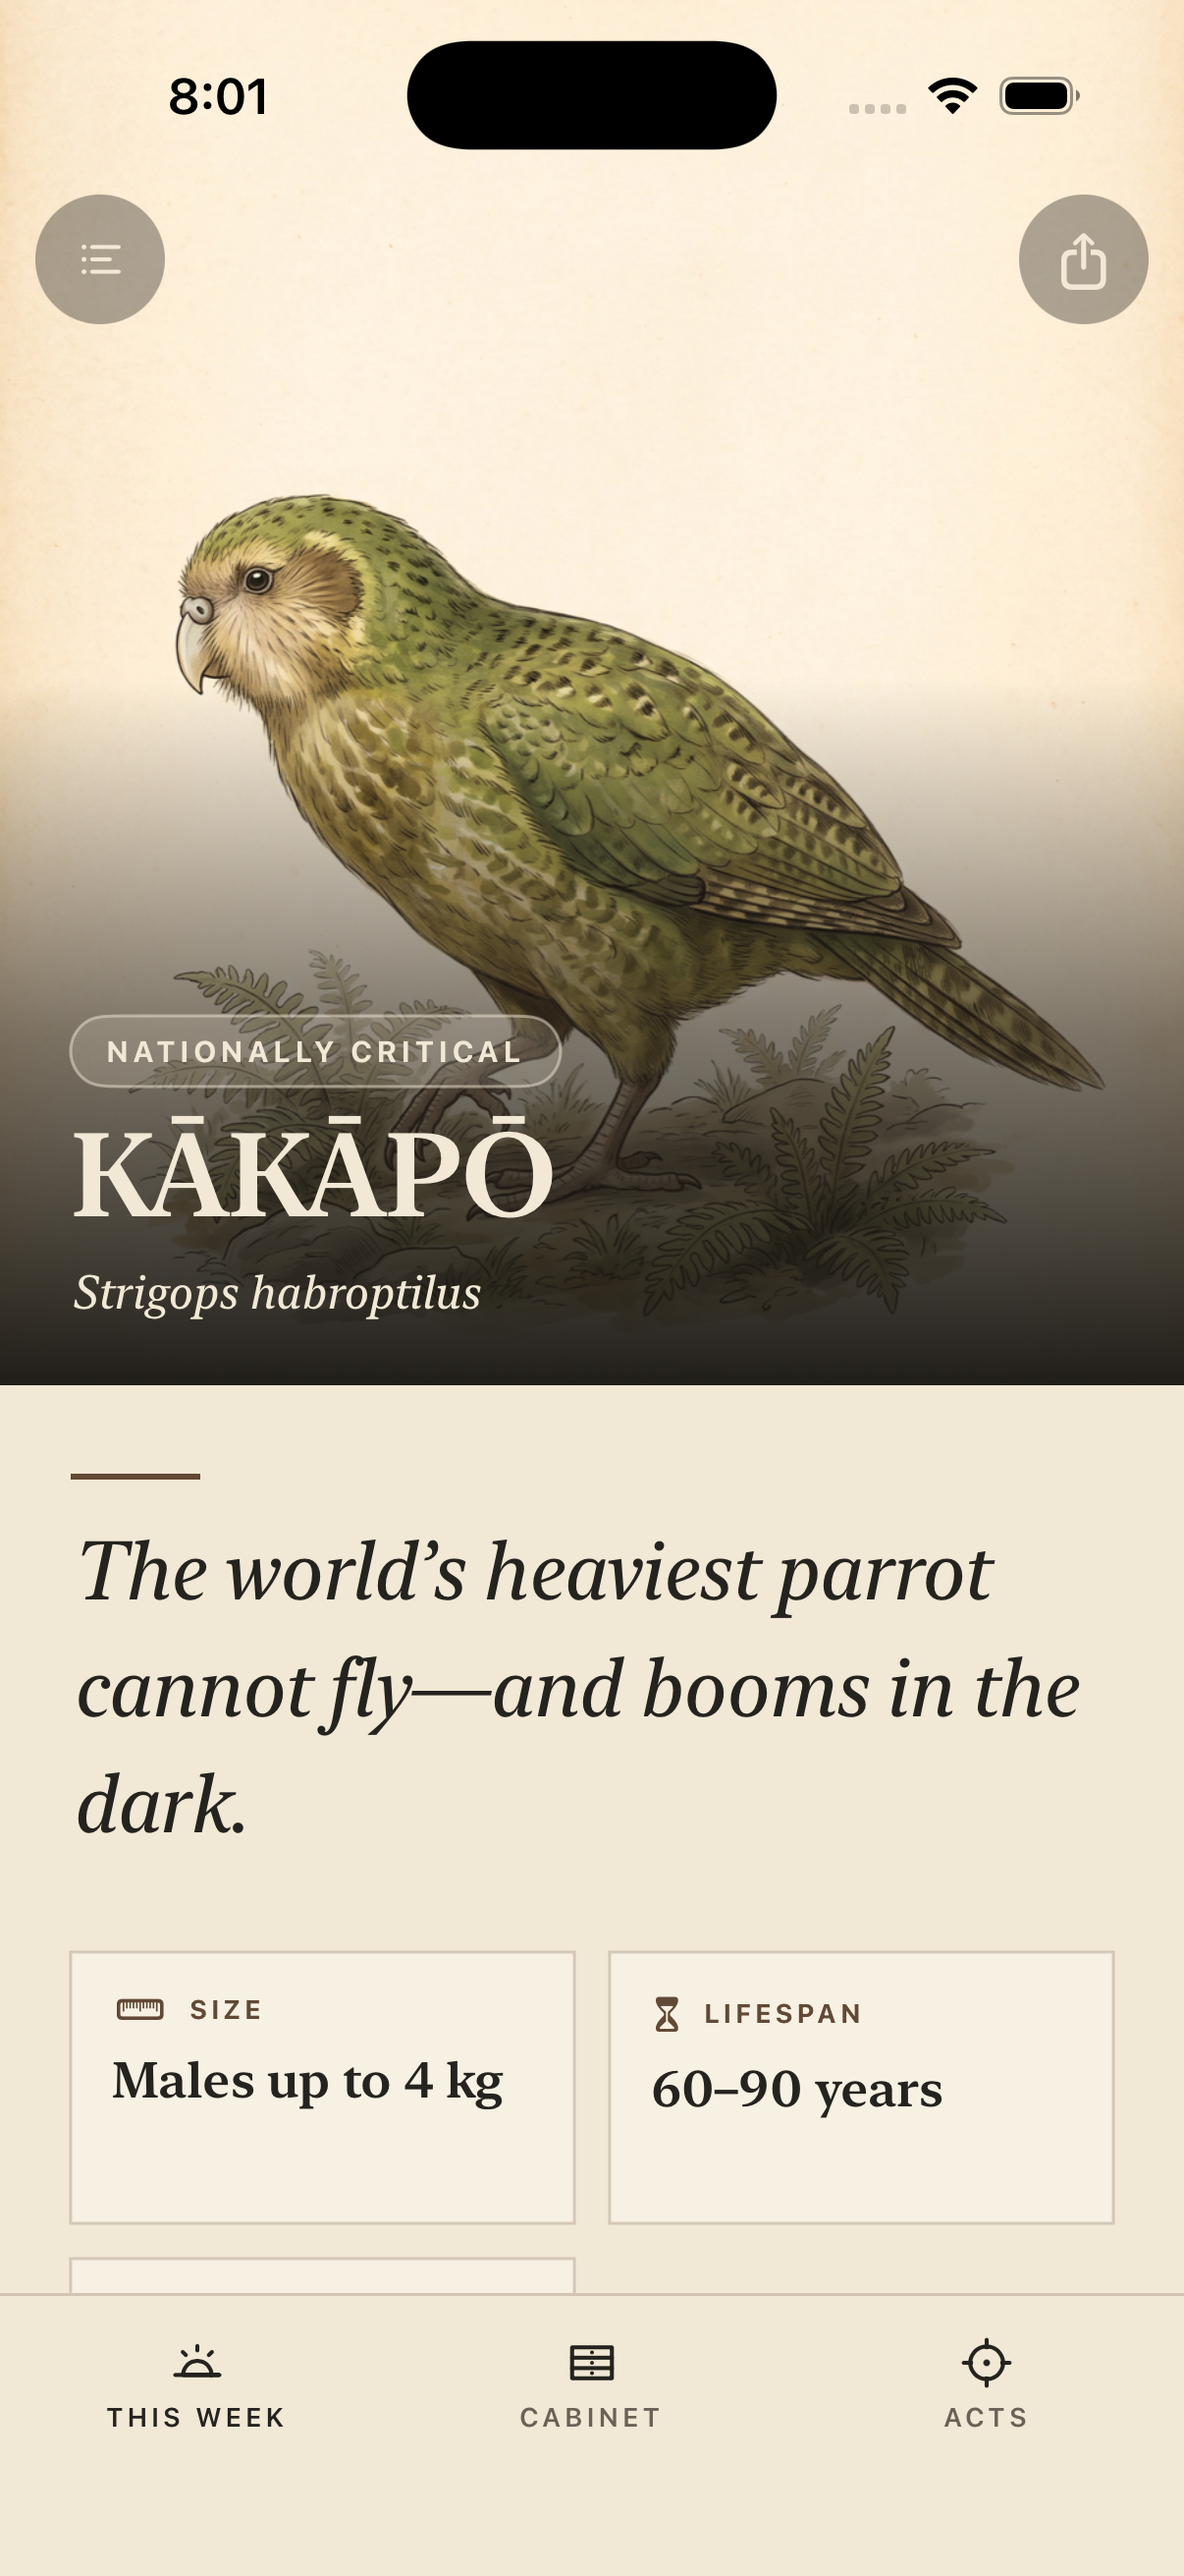
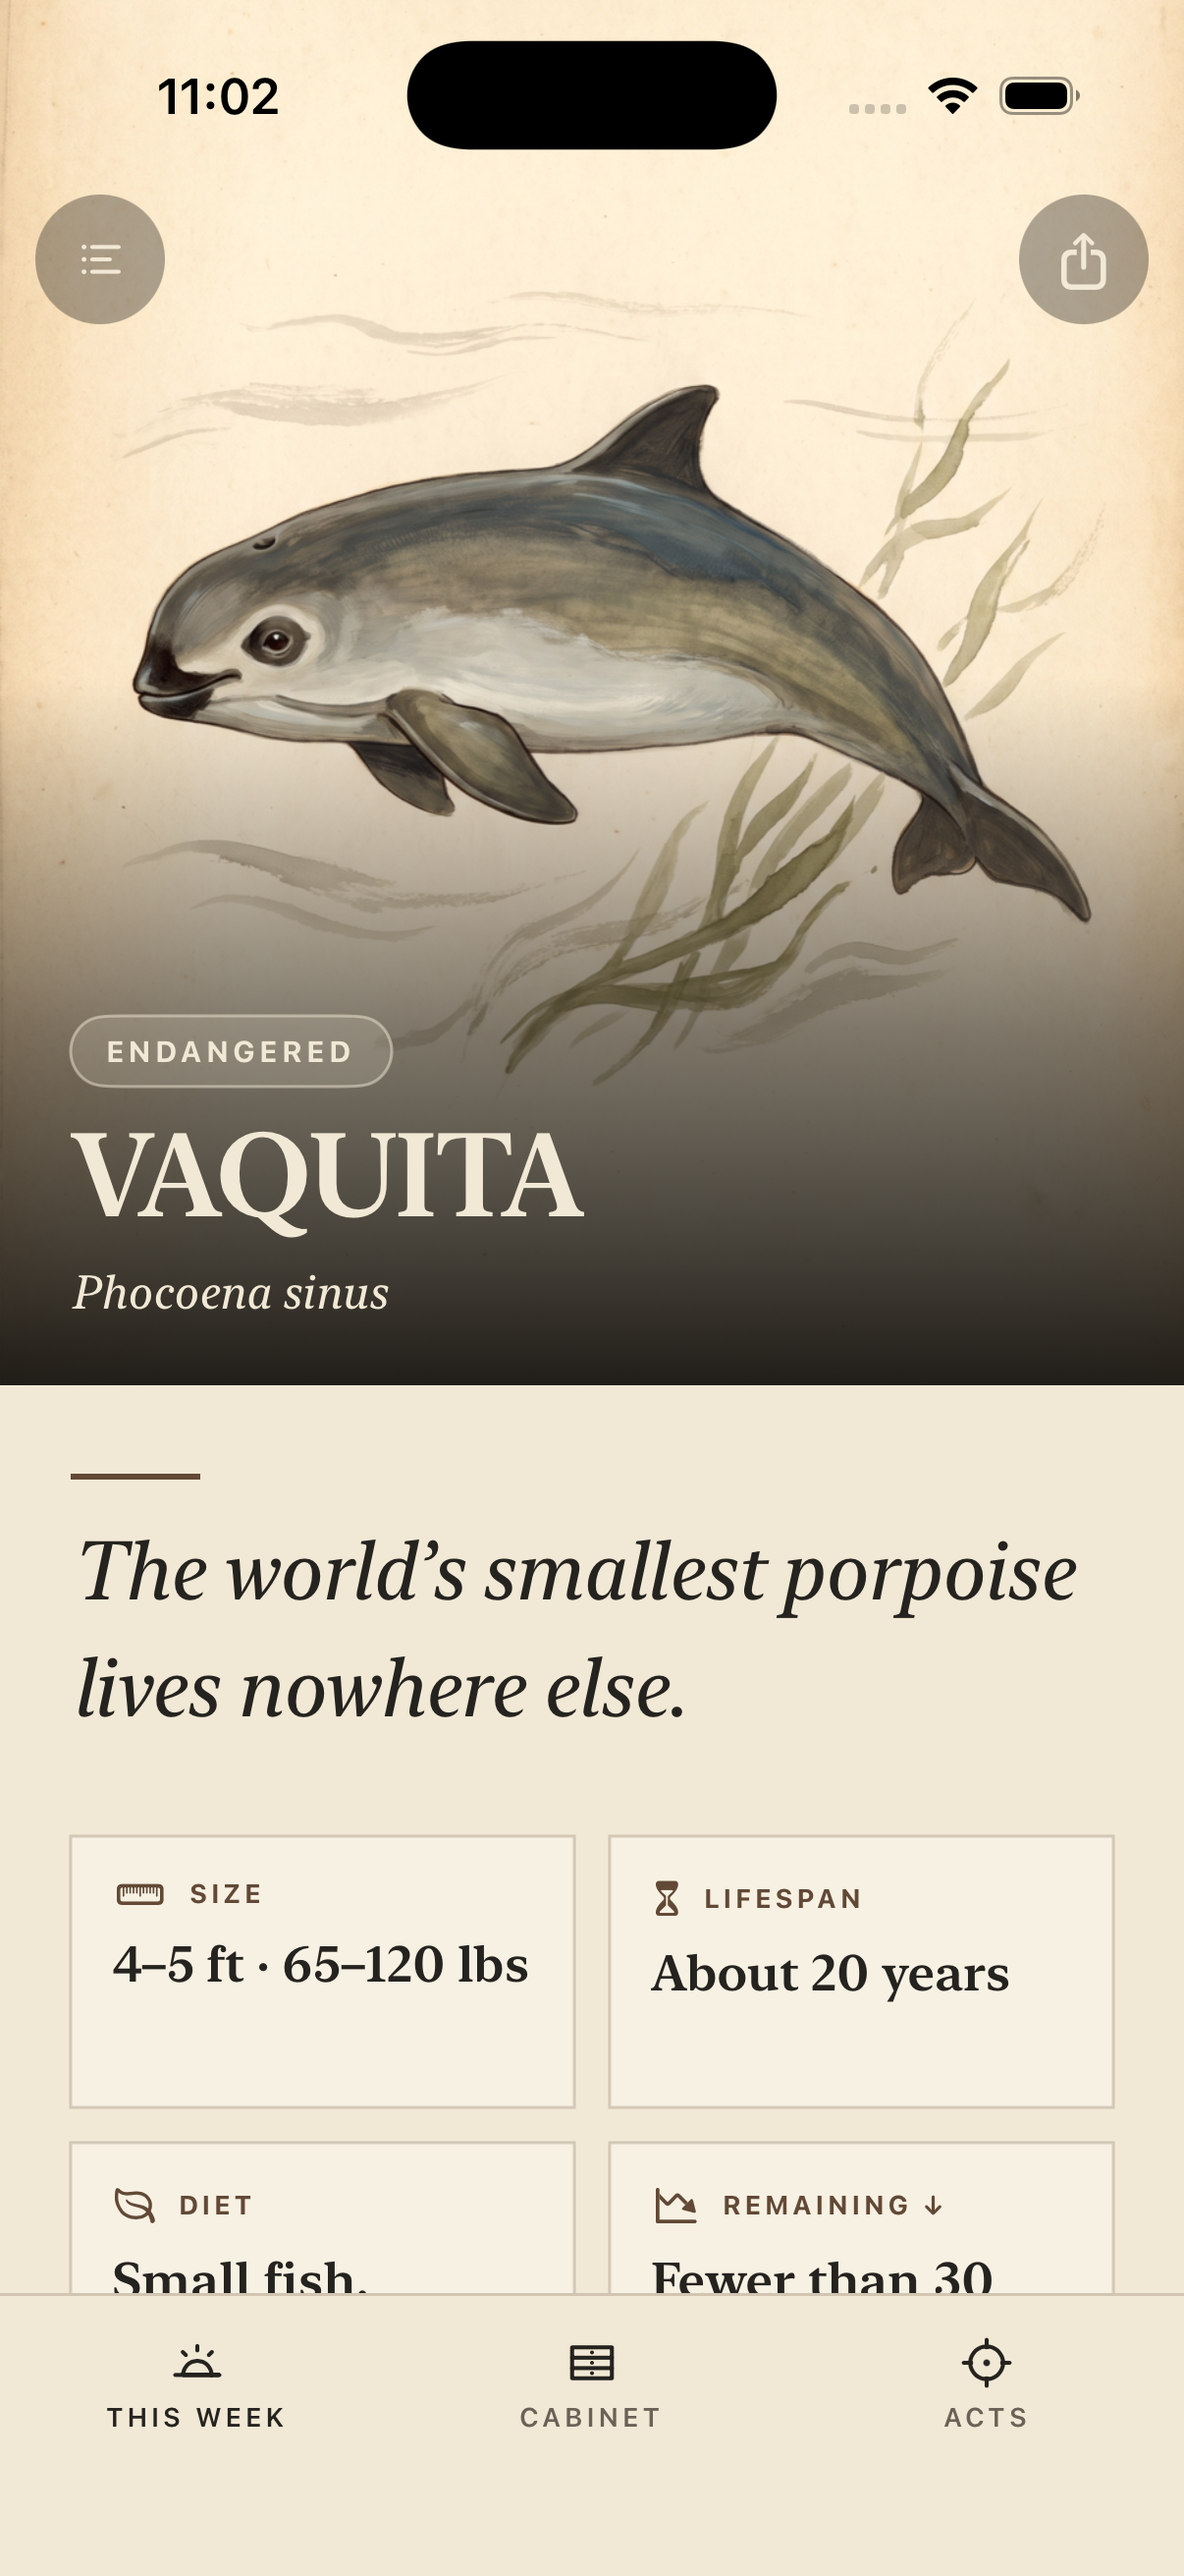
Home: one sticky phone whose screen changes with the step, three different animals
The three "how it works" rows each carried their own phone, all showing the
kākāpō. Now one phone stays put while the copy scrolls past, and its screen
crossfades: the vaquita card, the Javan rhino's witness block, the kākāpō's act.
A small IntersectionObserver component drives it; before hydration the first
step shows. On phones the mockup sits below the header and the copy scrolls
under it. web_shot.mjs can now capture a viewport at a scroll offset.

diff --git a/witness_web/site/app/globals.css b/witness_web/site/app/globals.css
@@ -274,30 +274,36 @@
 }
 
 .how-section { background: var(--paper-fresh); }
-.how-steps { margin-top: 2rem; }
+.how-grid { display: grid; grid-template-columns: minmax(0, 1fr) minmax(0, 1fr); align-items: start; gap: clamp(2rem, 6vw, 6rem); margin-top: 2rem; }
+.how-steps { display: flex; flex-direction: column; }
 .how-step {
-  display: grid;
-  grid-template-columns: minmax(0, 1fr) minmax(0, 1fr);
-  align-items: center;
-  gap: clamp(2rem, 6vw, 6rem);
-  padding-block: clamp(3rem, 6vw, 5rem);
+  display: flex;
+  flex-direction: column;
+  justify-content: center;
+  min-height: 72vh;
+  padding-block: 3rem;
   border-top: 1px solid color-mix(in srgb, var(--hairline) 50%, transparent);
+  opacity: .32;
+  transition: opacity 450ms ease-out;
 }
-.how-step:nth-child(even) .how-copy { order: 2; }
+.how-step.is-active { opacity: 1; }
 .how-index { font-size: .68rem; font-weight: 700; letter-spacing: .16em; color: var(--sepia); }
-.how-copy h3 { margin-top: .9rem; font-family: var(--font-display); font-size: clamp(1.9rem, 3.6vw, 3rem); font-weight: 600; line-height: 1.02; letter-spacing: -.03em; text-wrap: balance; }
-.how-copy > p:last-child { max-width: 42ch; margin-top: 1.1rem; font-size: 1.05rem; line-height: 1.7; color: var(--ink-muted); text-wrap: pretty; }
+.how-step h3 { margin-top: .9rem; font-family: var(--font-display); font-size: clamp(1.9rem, 3.6vw, 3rem); font-weight: 600; line-height: 1.02; letter-spacing: -.03em; text-wrap: balance; }
+.how-step > p:last-child { max-width: 42ch; margin-top: 1.1rem; font-size: 1.05rem; line-height: 1.7; color: var(--ink-muted); text-wrap: pretty; }
 
-/* The bezel is one rule; the screenshot inside carries its own size. */
+/* The phone stays while the steps pass; its screens are stacked and crossfade. */
+.how-device { position: sticky; top: 0; display: flex; align-items: center; justify-content: center; height: 100vh; }
 .phone {
-  width: min(272px, 78vw);
-  margin-inline: auto;
+  position: relative;
+  width: min(300px, 78vw);
   padding: 10px;
   border-radius: 3.1rem;
   background: #10100f;
   box-shadow: 0 34px 70px -34px color-mix(in srgb, var(--ink) 65%, transparent);
 }
-.phone img { display: block; width: 100%; height: auto; border-radius: 2.5rem; }
+.phone img { display: block; width: 100%; height: auto; border-radius: 2.5rem; opacity: 0; transition: opacity 550ms ease-out; }
+.phone img:not(:first-child) { position: absolute; top: 10px; left: 10px; width: calc(100% - 20px); }
+.phone img.is-active { opacity: 1; }
 
 .archive-head { display: grid; grid-template-columns: 1.1fr .9fr; align-items: end; gap: 3rem; }
 .archive-head h2 { max-width: 13ch; }
@@ -366,8 +372,12 @@ details[open] .faq-plus::after { transform: rotate(0deg); }
 @media (max-width: 767px) {
   .home-hero-inner { padding-top: 2rem; }
   .plate-strip { padding-bottom: 2rem; }
-  .how-step { grid-template-columns: 1fr; gap: 2rem; }
-  .how-step .how-copy, .how-step:nth-child(even) .how-copy { order: 2; }
+  .how-grid { grid-template-columns: 1fr; gap: 0; }
+  .how-device { order: -1; top: 4.75rem; z-index: 1; height: auto; padding-block: .75rem 1rem; background: var(--paper-fresh); }
+  .phone { width: min(180px, 44vw); padding: 7px; border-radius: 2.2rem; }
+  .phone img { border-radius: 1.8rem; }
+  .phone img:not(:first-child) { top: 7px; left: 7px; width: calc(100% - 14px); }
+  .how-step { min-height: 46vh; padding-block: 2rem; }
   .archive-head, .faq-layout { grid-template-columns: 1fr; gap: 2rem; }
   .archive-grid { grid-template-columns: repeat(4, 1fr); }
   .work { grid-template-columns: 1fr; }
@@ -378,7 +388,7 @@ details[open] .faq-plus::after { transform: rotate(0deg); }
 }
 
 @media (prefers-reduced-motion: reduce) {
-  .plate-strip img, .archive-grid img { transition: none; }
+  .plate-strip img, .archive-grid img, .how-step, .phone img { transition: none; }
 }
 
 /* Field notes — the daily essay. One measure, one voice, sources below. */

diff --git a/witness_web/site/app/page.tsx b/witness_web/site/app/page.tsx
@@ -2,6 +2,7 @@ import { readFileSync } from "node:fs";
 import { join } from "node:path";
 import Link from "next/link";
 import { Container, Eyebrow, PrimaryLink, TextLink } from "@/components/atlas";
+import { HowItWorks, type Step } from "@/components/how-it-works";
 import { APP_STORE_URL, SITE_URL, allRecords, plate, recordById } from "@/lib/archive";
 
 /** Plates in the hero strip and the archive band. Eight each, chosen for variety of form and colour. */
@@ -12,20 +13,20 @@ const ATLAS = ["gharial", "california-condor", "hawksbill-turtle"];
 /** Screenshots of the shipped app, status bar cropped, exported by tools/export_web_plates.sh. */
 const SHOT = { width: 1206, height: 2439 };
 
-const STEPS = [
+const STEPS: readonly Step[] = [
   {
     n: "01",
     title: "Every Monday, one plate arrives.",
     body: "A new species, drawn and told in full: what is known, what threatens it, what is uncertain, and where every fact comes from. Each claim maps to a public source.",
     src: "/images/app/this-week.webp",
-    alt: "The Witness app showing this week’s card: an illustrated kākāpō with its status, name, and first facts.",
+    alt: "The Witness app showing this week’s card: an illustrated vaquita with its status, name, and first facts.",
   },
   {
     n: "02",
     title: "One deliberate tap, once a week.",
     body: "To witness is to give a species a minute of your full attention. You join an anonymous, deduplicated count of everyone who witnessed alongside you. A private note never leaves your phone.",
     src: "/images/app/witness.webp",
-    alt: "The Witness app’s “I bear witness” button beneath a scale study of the kākāpō drawn beside a human figure.",
+    alt: "The Witness app’s “I bear witness” button beneath a scale study of the Javan rhino drawn beside a human figure.",
   },
   {
     n: "03",
@@ -117,20 +118,7 @@ export default function Home() {
             <Eyebrow className="text-sepia">How it works</Eyebrow>
             <h2>One encounter a week.<br />That is the whole app.</h2>
           </div>
-          <ol className="how-steps">
-            {STEPS.map((step) => (
-              <li key={step.n} className="how-step">
-                <div className="how-copy">
-                  <p className="how-index">{step.n}</p>
-                  <h3>{step.title}</h3>
-                  <p>{step.body}</p>
-                </div>
-                <div className="phone">
-                  <img src={step.src} width={SHOT.width} height={SHOT.height} alt={step.alt} loading="lazy" decoding="async" />
-                </div>
-              </li>
-            ))}
-          </ol>
+          <HowItWorks steps={STEPS} width={SHOT.width} height={SHOT.height} />
         </Container>
       </section>
 

diff --git a/witness_web/site/components/how-it-works.tsx b/witness_web/site/components/how-it-works.tsx
@@ -1,0 +1,64 @@
+"use client";
+
+/**
+ * The three steps beside one sticky phone. The copy scrolls; the phone stays
+ * and its screen crossfades to the step in view. The only client JavaScript
+ * on the site: one IntersectionObserver. Before hydration the first step and
+ * its screen show, so nothing depends on it.
+ */
+import { useEffect, useRef, useState } from "react";
+
+export type Step = { n: string; title: string; body: string; src: string; alt: string };
+
+export function HowItWorks({ steps, width, height }: { steps: readonly Step[]; width: number; height: number }) {
+  const [active, setActive] = useState(0);
+  const items = useRef<Array<HTMLLIElement | null>>([]);
+
+  useEffect(() => {
+    const observer = new IntersectionObserver(
+      (entries) => {
+        const visible = entries
+          .filter((entry) => entry.isIntersecting)
+          .sort((a, b) => b.intersectionRatio - a.intersectionRatio)[0];
+        if (visible) setActive(Number((visible.target as HTMLElement).dataset.step));
+      },
+      { rootMargin: "-38% 0px -38%", threshold: [0, 0.25, 0.5, 0.75, 1] },
+    );
+    items.current.forEach((item) => item && observer.observe(item));
+    return () => observer.disconnect();
+  }, []);
+
+  return (
+    <div className="how-grid">
+      <ol className="how-steps">
+        {steps.map((step, i) => (
+          <li
+            key={step.n}
+            ref={(node) => { items.current[i] = node; }}
+            data-step={i}
+            className={i === active ? "how-step is-active" : "how-step"}
+          >
+            <p className="how-index">{step.n}</p>
+            <h3>{step.title}</h3>
+            <p>{step.body}</p>
+          </li>
+        ))}
+      </ol>
+      <div className="how-device">
+        <div className="phone" aria-live="polite">
+          {steps.map((step, i) => (
+            <img
+              key={step.n}
+              src={step.src}
+              width={width}
+              height={height}
+              alt={i === active ? step.alt : ""}
+              decoding="async"
+              className={i === active ? "is-active" : undefined}
+            />
+          ))}
+        </div>
+      </div>
+    </div>
+  );
+}
